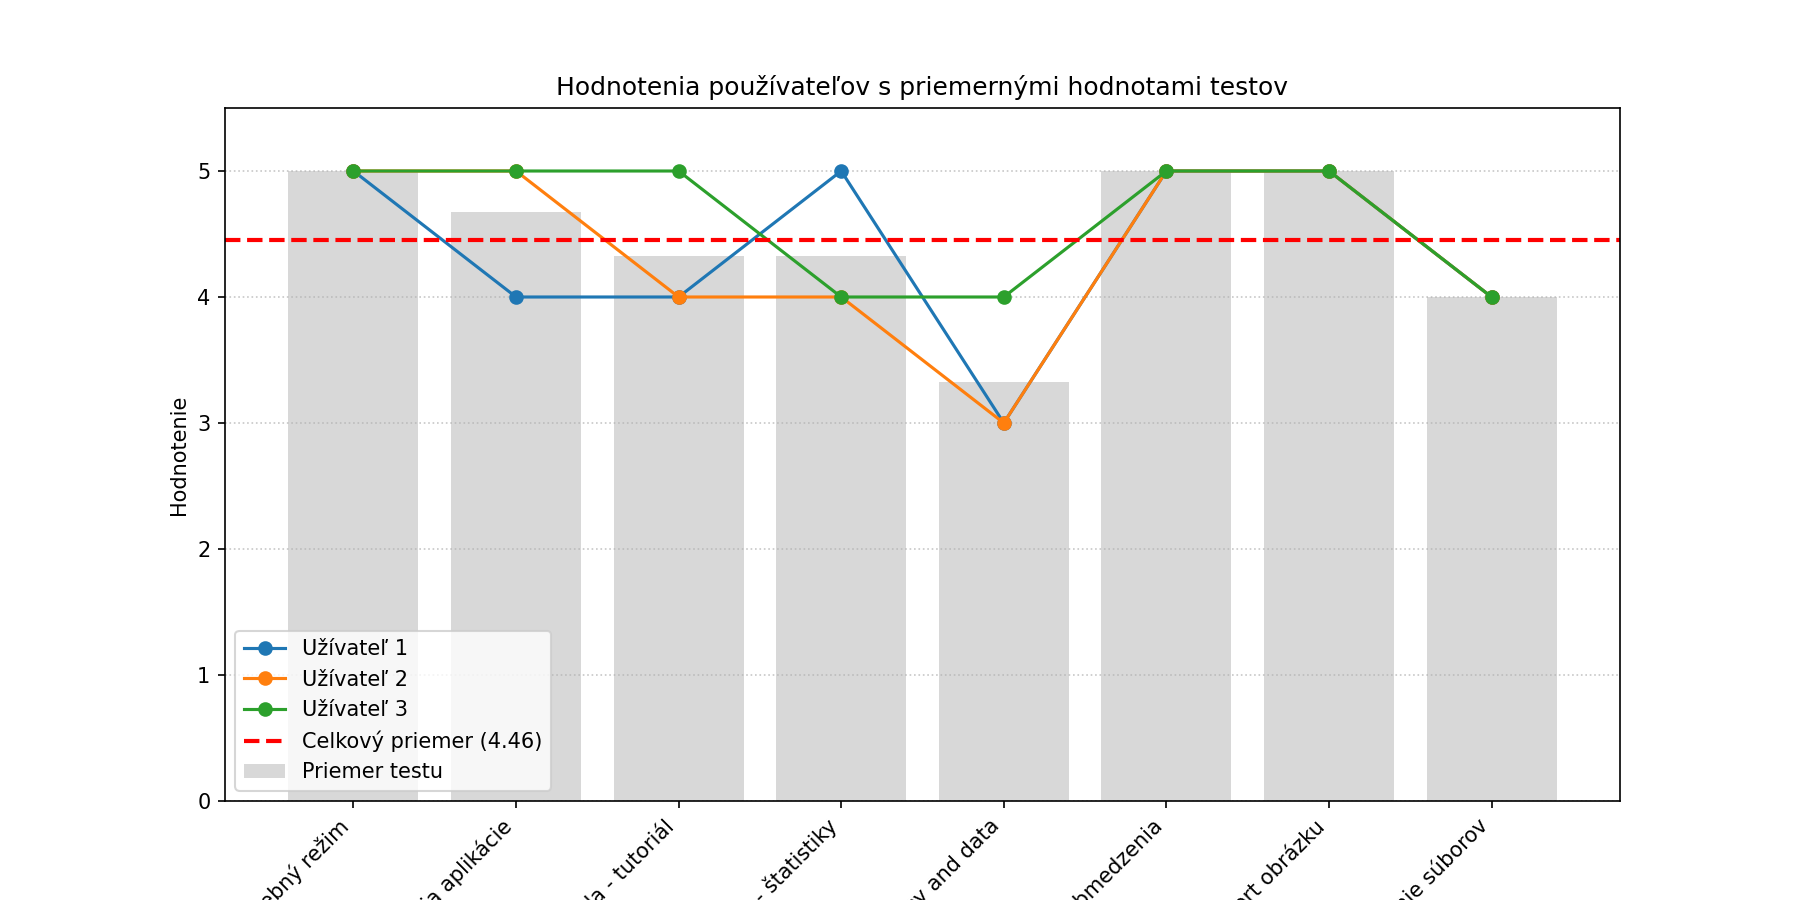
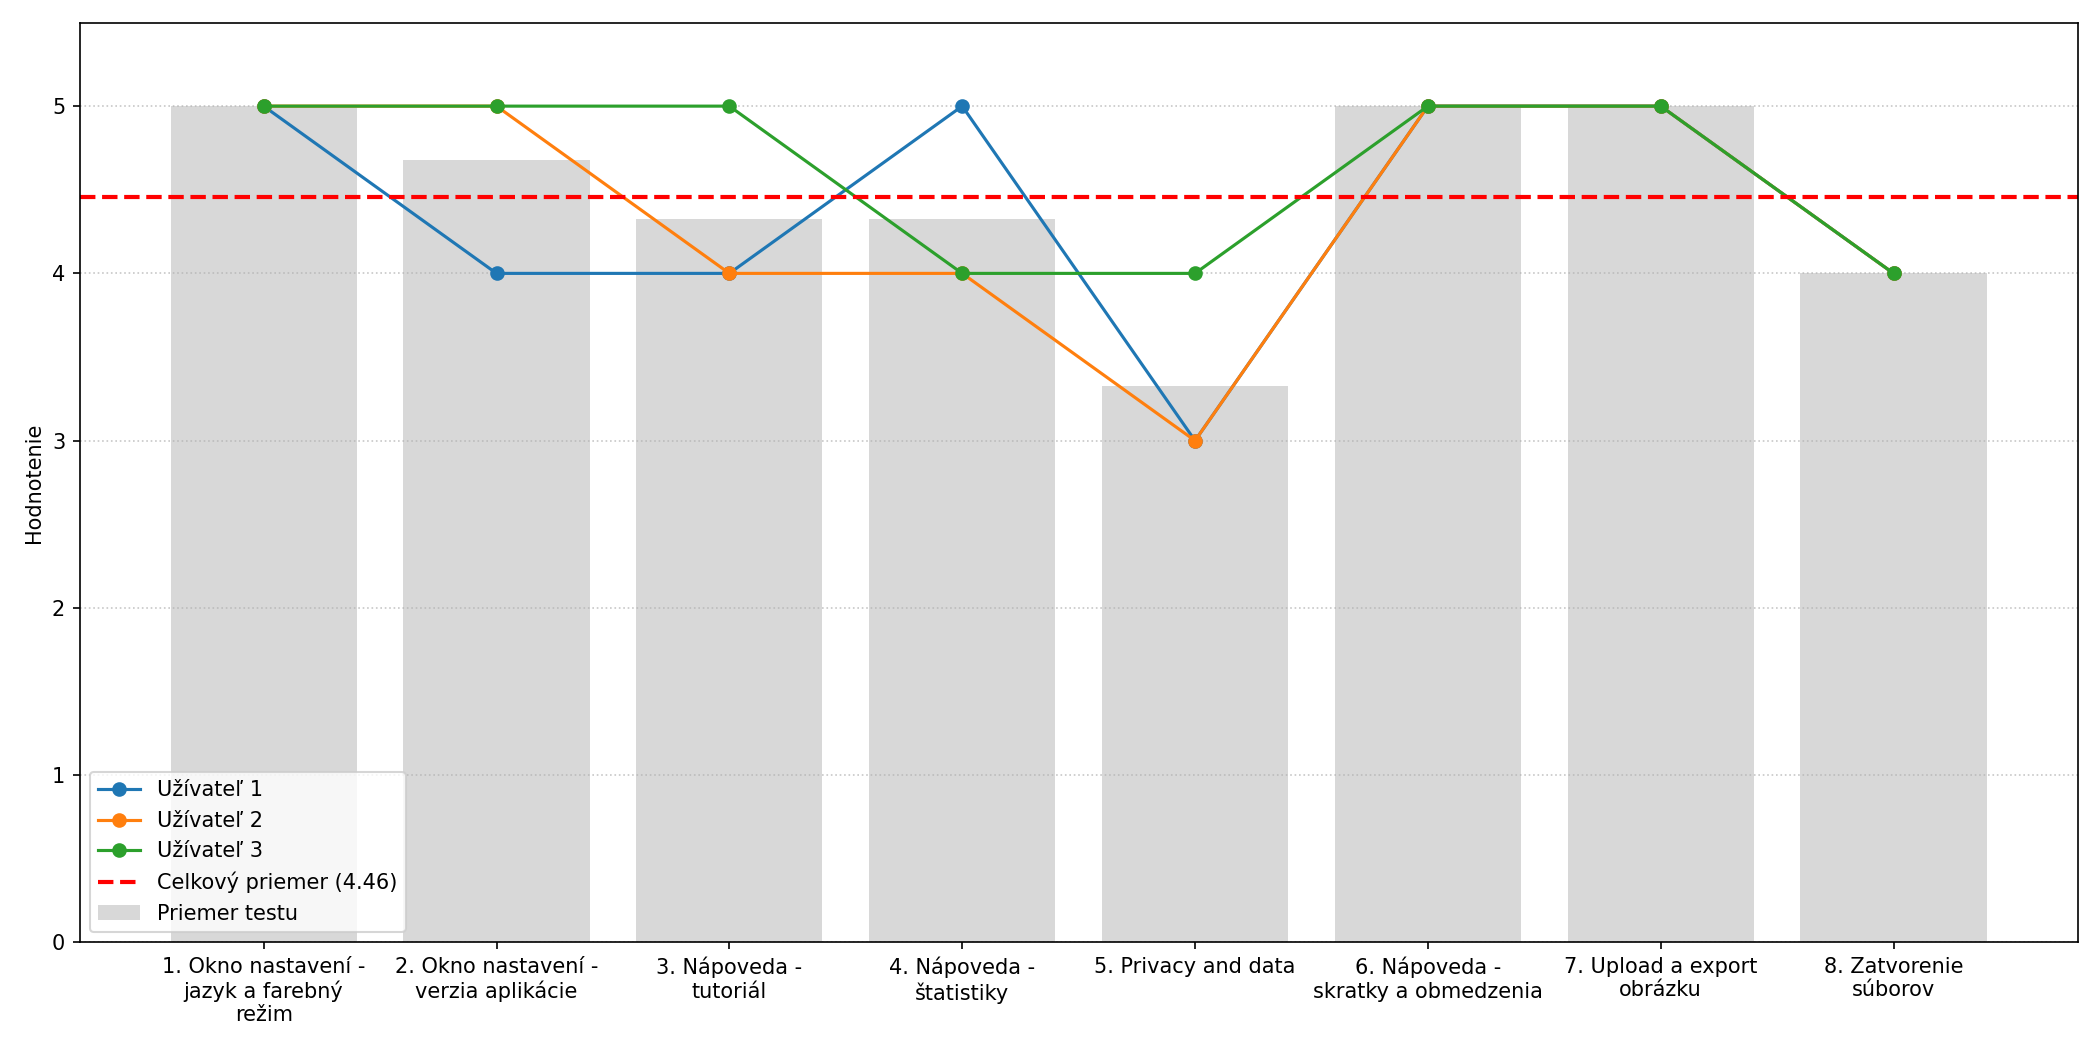
fix: Center graph

diff --git a/userTesting/testing.py b/userTesting/testing.py
@@ -2,6 +2,7 @@ import pandas as pd
 import matplotlib.pyplot as plt
 from pathlib import Path
 import sys
+import textwrap
 
 def visualize_csv(csv_path: str):
     # Load CSV
@@ -25,14 +26,15 @@ def visualize_csv(csv_path: str):
     print(f"\nCelkový priemer: {overall_mean:.3f}")
 
     # Plot
-    plt.figure(figsize=(12, 6))
+    plt.figure(figsize=(14, 7))
 
     # Plot individual users as lines, exclude last column
     for col in numeric_df.columns[:-1]:
         plt.plot(df.index, numeric_df[col], marker="o", label=col)
 
-    # X-axis labels correspond to všetky úlohy, vrátane posledného stĺpca
-    plt.xticks(df.index, df.iloc[:, 0], rotation=45, ha="right")
+    # Wrap x-axis labels
+    wrapped_labels = [ "\n".join(textwrap.wrap(str(label), 20)) for label in df.iloc[:, 0] ]
+    plt.xticks(df.index, wrapped_labels, rotation=0, ha="center")
 
     # Plot per-test average as bars (transparent)
     plt.bar(df.index, test_averages, alpha=0.3, color='gray', label='Priemer testu')
@@ -40,12 +42,13 @@ def visualize_csv(csv_path: str):
     # Horizontal line for overall average only
     plt.axhline(overall_mean, color='red', linestyle='--', linewidth=2, label=f'Celkový priemer ({overall_mean:.2f})')
 
-    plt.xticks(df.index, df.iloc[:, 0], rotation=45, ha="right")  # show first column (text) as labels
-    plt.ylim(0, 5.5)  # scale from 0 to 6
+    plt.ylim(0, 5.5)  # scale from 0 to 5.5
     plt.ylabel("Hodnotenie")
-    plt.title("Hodnotenia používateľov s priemernými hodnotami testov")
     plt.grid(axis='y', linestyle=':', alpha=0.7)
     plt.legend()
+
+    # Adjust layout to fit long labels
+    plt.tight_layout(rect=[0, 0, 1, 1])  # leave extra space at bottom
 
     # Save figure as PNG
     out_path_png = Path(csv_path).with_name(Path(csv_path).stem + "_graf.png")
